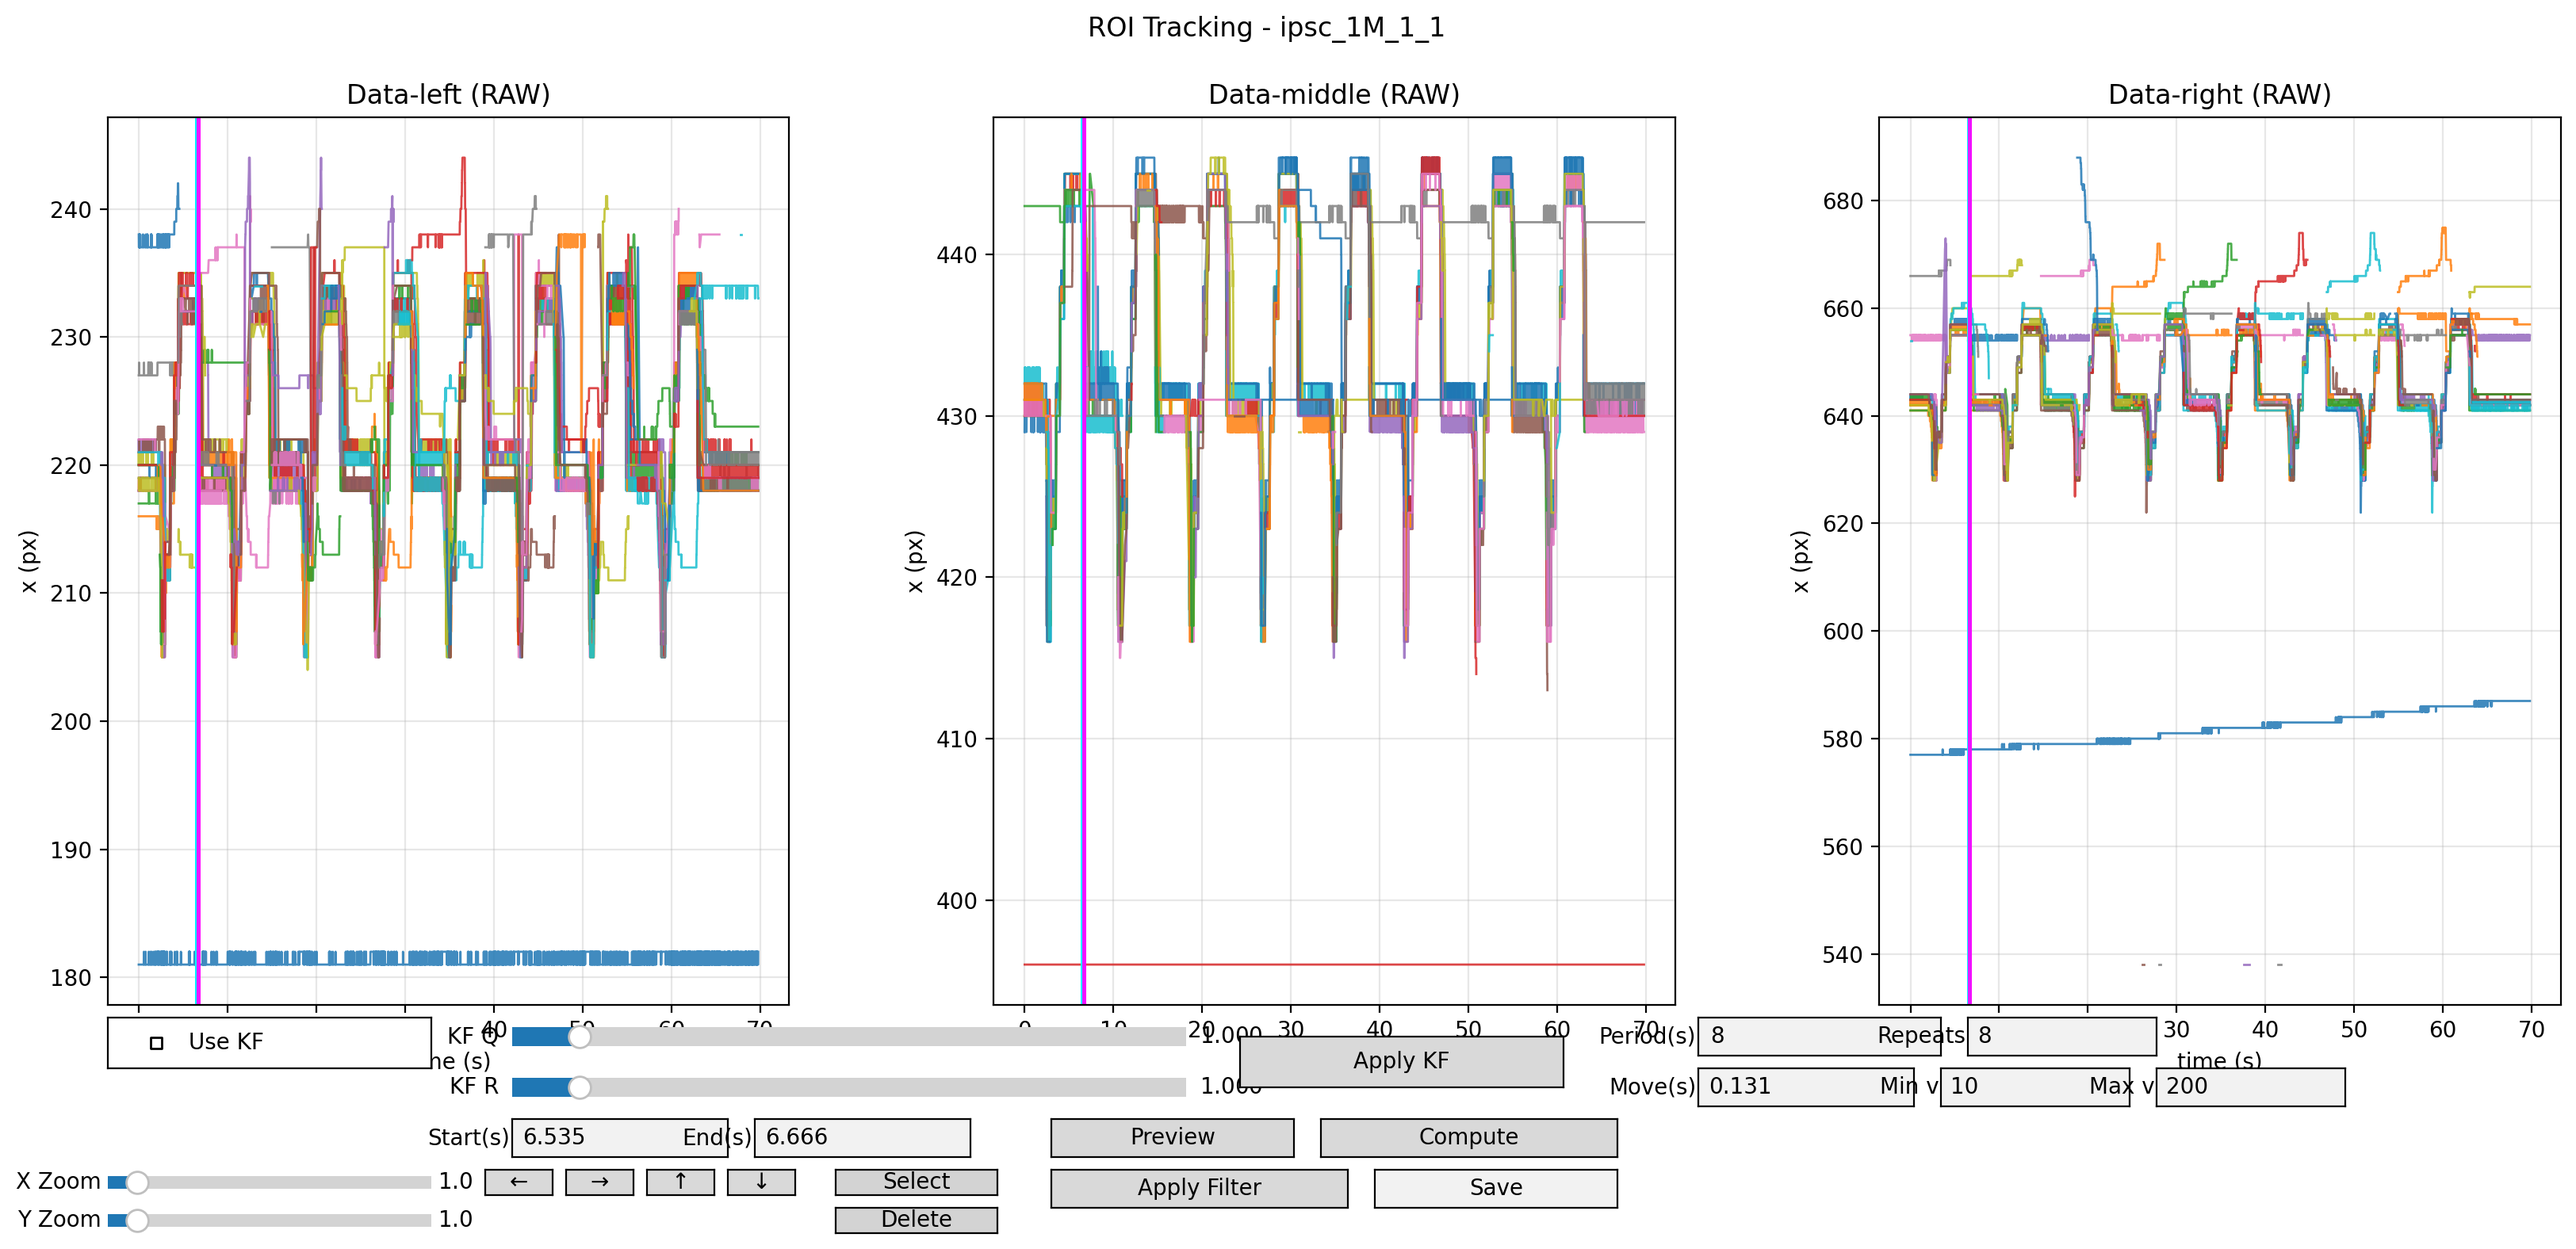
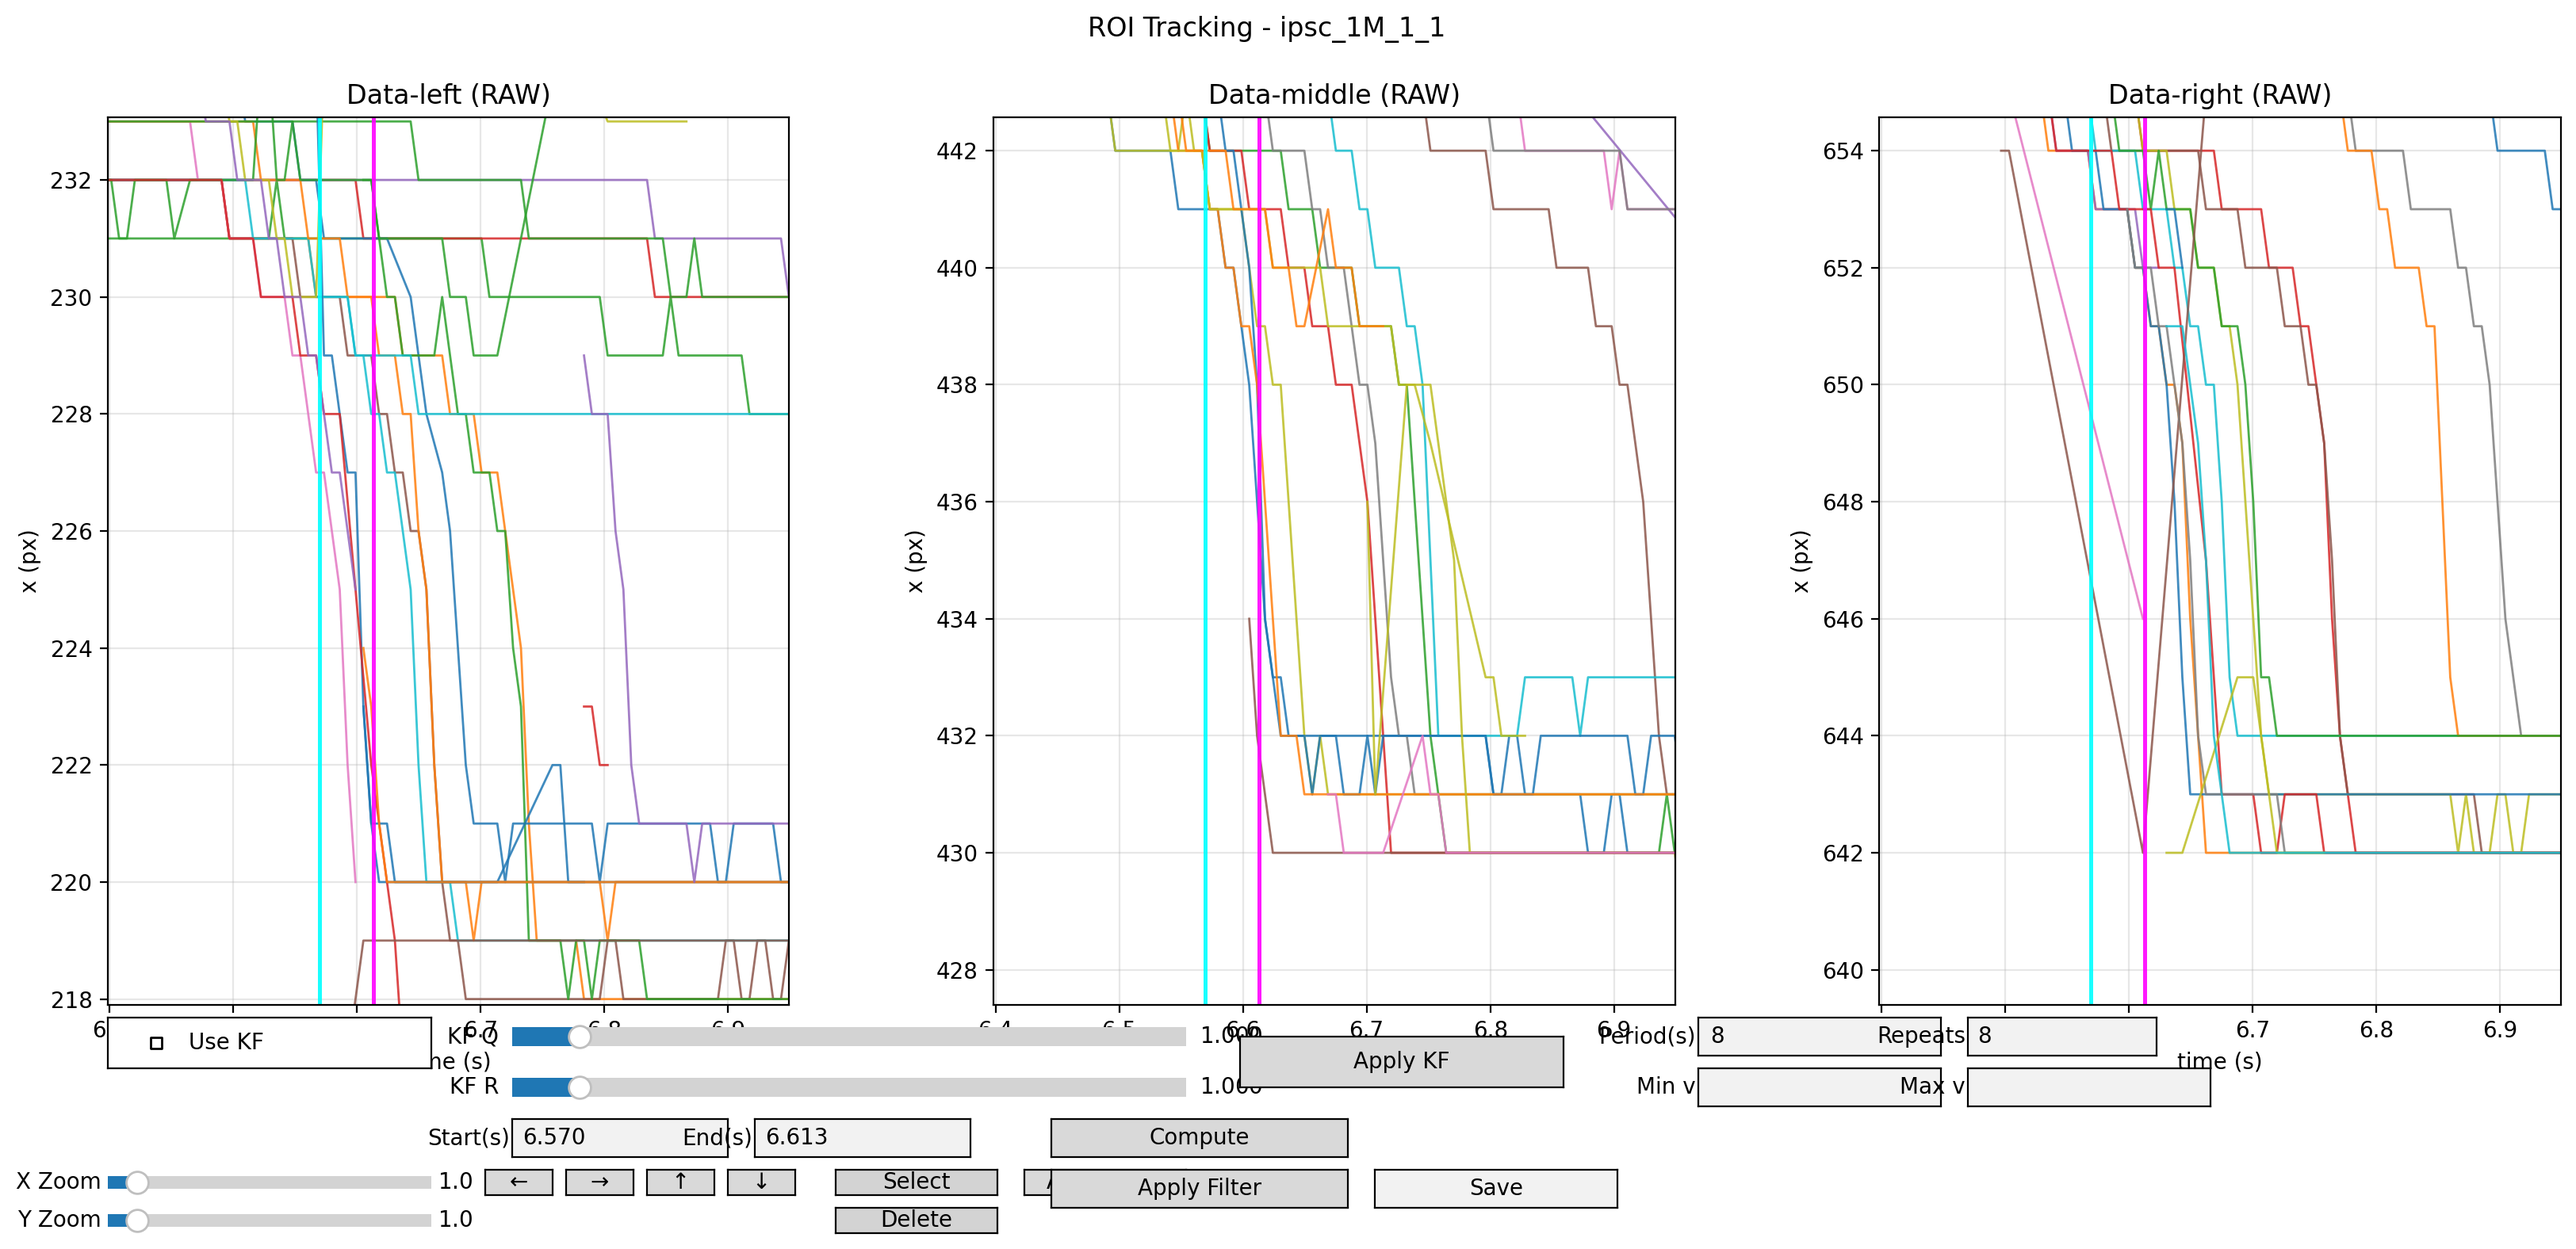
dashboard scale fixed2

diff --git a/roi_tracking_dashboard.py b/roi_tracking_dashboard.py
@@ -340,6 +340,10 @@ def dashboard(settings_file: str):
     ax_delete = plt.axes([0.34, 0.02, 0.06, 0.02])
     btn_delete = Button(ax_delete, 'Delete')
     
+    # Auto-scale button
+    ax_autoscale = plt.axes([0.41, 0.05, 0.06, 0.02])
+    btn_autoscale = Button(ax_autoscale, 'Auto Scale')
+    
     # Mode states
     select_mode = False
     delete_mode = False
@@ -908,8 +912,54 @@ def dashboard(settings_file: str):
     btn_x_right.on_clicked(on_x_offset_right)
     btn_y_up.on_clicked(on_y_offset_up)
     btn_y_down.on_clicked(on_y_offset_down)
+    def on_autoscale(event):
+        """Auto-scale all plots to fit current data"""
+        df_for_autoscale = current_df()
+        if len(df_for_autoscale) == 0:
+            print("No data to auto-scale")
+            return
+        
+        # Get data bounds for each ROI
+        for j, roi in enumerate(LABELS):
+            roi_data = df_for_autoscale[df_for_autoscale['roi'] == roi]
+            
+            if len(roi_data) > 0:
+                # Filter out deleted lines from auto-scale calculation
+                roi_data_filtered = roi_data[~roi_data.apply(
+                    lambda row: (roi, row['cell_id']) in deleted_lines, axis=1
+                )]
+                
+                if len(roi_data_filtered) > 0:
+                    t_min, t_max = roi_data_filtered['timestamp'].min(), roi_data_filtered['timestamp'].max()
+                    x_min, x_max = roi_data_filtered['cell_x'].min(), roi_data_filtered['cell_x'].max()
+                    
+                    # Add some padding (5% on each side)
+                    t_padding = (t_max - t_min) * 0.05
+                    x_padding = (x_max - x_min) * 0.05
+                    
+                    axes[0, j].set_xlim(t_min - t_padding, t_max + t_padding)
+                    axes[0, j].set_ylim(x_min - x_padding, x_max + x_padding)
+                else:
+                    # If all lines are deleted, use original data bounds
+                    t_min, t_max = roi_data['timestamp'].min(), roi_data['timestamp'].max()
+                    x_min, x_max = roi_data['cell_x'].min(), roi_data['cell_x'].max()
+                    
+                    t_padding = (t_max - t_min) * 0.05
+                    x_padding = (x_max - x_min) * 0.05
+                    
+                    axes[0, j].set_xlim(t_min - t_padding, t_max + t_padding)
+                    axes[0, j].set_ylim(x_min - x_padding, x_max + x_padding)
+        
+        # Reset zoom sliders to 1.0
+        s_x_scale.reset()
+        s_y_scale.reset()
+        
+        fig.canvas.draw_idle()
+        print("Auto-scaled all plots to fit data")
+
     btn_select.on_clicked(on_select_toggle)
     btn_delete.on_clicked(on_delete_toggle)
+    btn_autoscale.on_clicked(on_autoscale)
 
     plt.show()
 
